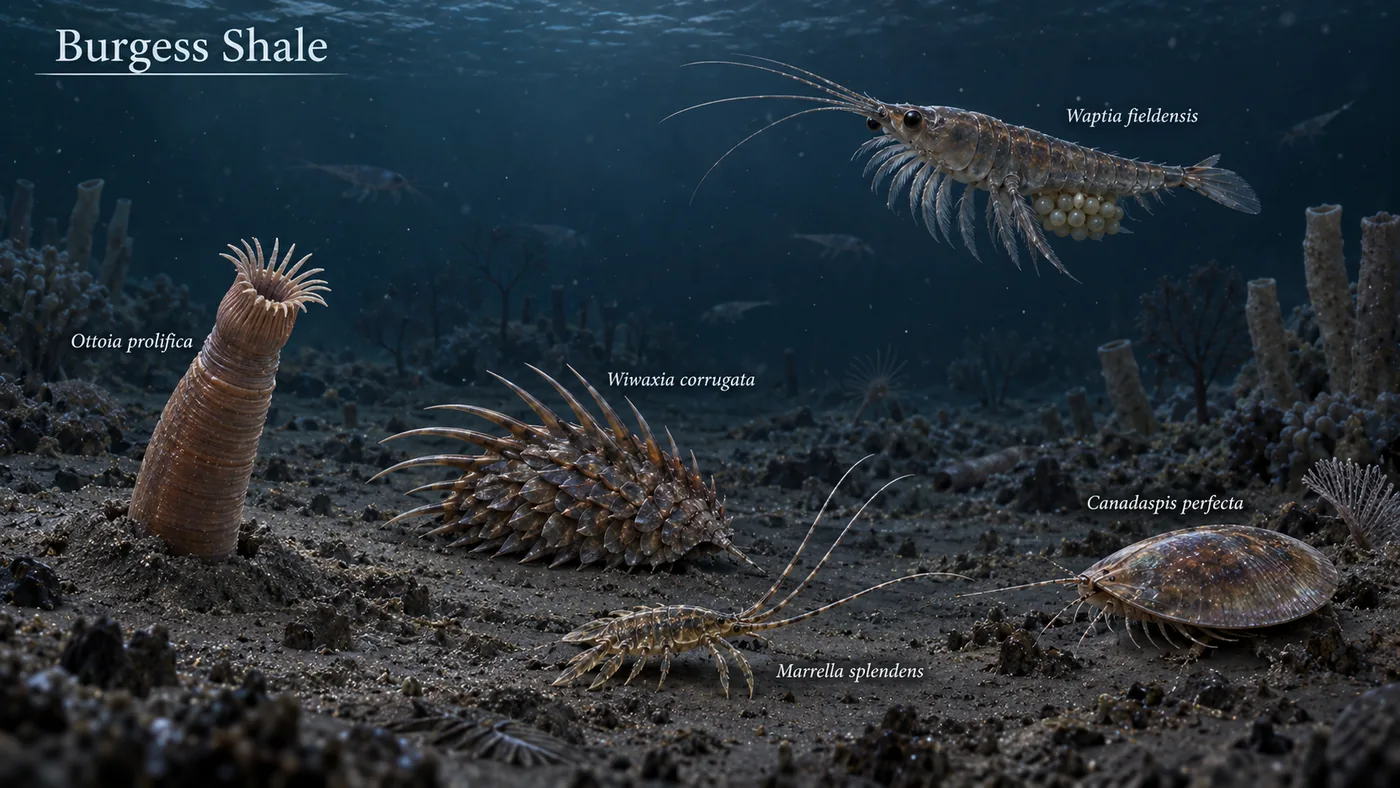
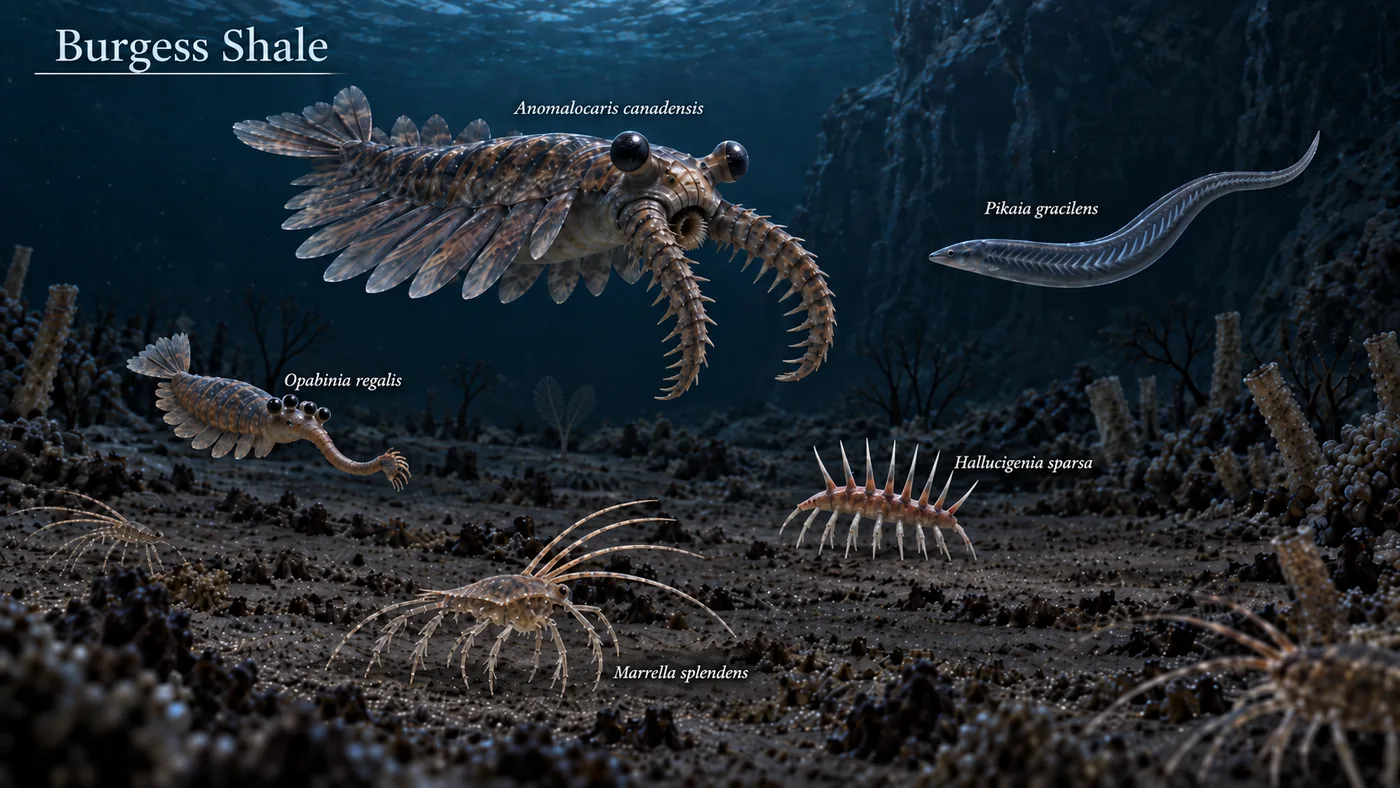
Redraw the Burgess Shale for the animals people have heard of
Its five were picked the way every other scene's were, by counting the record:
Selkirkia, Ehmaniella, Wiwaxia, Marrella, Pentagnostus. All real, all correct,
and nobody has heard of any of them — which for the Cambrian is a waste, since
this is the one deep-time fauna a general reader can already name.

Anomalocaris, Opabinia, Pikaia and Hallucigenia are all in this record at
species level, two to six occurrences each, and none was in the picture.
They are now, with Marrella kept from the old five as the top of the count.

Three reconstruction traps were checked at five times magnification and all
three are right: Hallucigenia has its spikes up and its legs down, Opabinia has
five eyes and one proboscis, and Anomalocaris is one animal rather than the
three it was mistaken for.

The background fish are gone too. There are no fish at 507 Ma, and more to the
point, fish behind Pikaia would have emptied Pikaia of its meaning — it is
there to be the first thing in the water with a notochord.

diff --git a/src/data/drawn.ts b/src/data/drawn.ts
@@ -83,9 +83,14 @@ export const DRAWN_IN_SCENE: Record<string, readonly string[]> = {
     "Eoredlichia intermediata", "Naraoia spinosa", "Leanchoilia illecebrosa",
     "Cricocosmia jinningensis", "Isoxys auritus",
   ],
+  // Chosen by fame rather than by count, and the only scene where that was the
+  // right call. The top of Burgess's record is Selkirkia, Ehmaniella, Wiwaxia,
+  // Pentagnostus — all real, all in the record, and nobody has heard of any of
+  // them. Four animals a reader is likely to recognise sit a little further
+  // down, at two to six occurrences each, and they are what this place means.
   "burgess-shale": [
-    "Marrella splendens", "Wiwaxia corrugata", "Ottoia prolifica",
-    "Canadaspis perfecta", "Waptia fieldensis",
+    "Anomalocaris canadensis", "Opabinia regalis", "Pikaia gracilens",
+    "Hallucigenia sparsa", "Marrella splendens",
   ],
   "anti-atlas": [
     "Agoniatites expansus", "Anarcestes lateseptatus", "Chotecops breviceps",

diff --git a/src/data/sceneHighlights.ts b/src/data/sceneHighlights.ts
@@ -139,11 +139,11 @@ export const SCENE_HIGHLIGHTS: Readonly<Record<string, Readonly<Record<string, S
     "Isoxys auritus": { x: 0.860, y: 0.270 },
   },
   "burgess-shale": {
-    "Marrella splendens": { x: 0.550, y: 0.880 },
-    "Wiwaxia corrugata": { x: 0.480, y: 0.480 },
-    "Ottoia prolifica": { x: 0.140, y: 0.440 },
-    "Canadaspis perfecta": { x: 0.880, y: 0.670 },
-    "Waptia fieldensis": { x: 0.780, y: 0.160 },
+    "Anomalocaris canadensis": { x: 0.435, y: 0.135 },
+    "Opabinia regalis": { x: 0.242, y: 0.496 },
+    "Pikaia gracilens": { x: 0.744, y: 0.266 },
+    "Hallucigenia sparsa": { x: 0.716, y: 0.592 },
+    "Marrella splendens": { x: 0.467, y: 0.845 },
   },
   gogo: {
     "Gogosardina coatesi": { x: 0.550, y: 0.670 },

diff --git a/src/data/names.ts b/src/data/names.ts
@@ -515,6 +515,12 @@ export const JAPANESE_NAME: Record<string, string> = {
   Sminthopsis: "スミントプシス",
   Potorous: "ネズミカンガルー",
   // Much Wenlock — Late Silurian, England. The top of this record is conodonts.
+  // Burgess Shale — the four a reader is likely to know.
+  Anomalocaris: "アノマロカリス",
+  Opabinia: "オパビニア",
+  Pikaia: "ピカイア",
+  Hallucigenia: "ハルキゲニア",
+
   Panderodus: "コノドント",
   Wurmiella: "コノドント",
   Ozarkodina: "コノドント",
